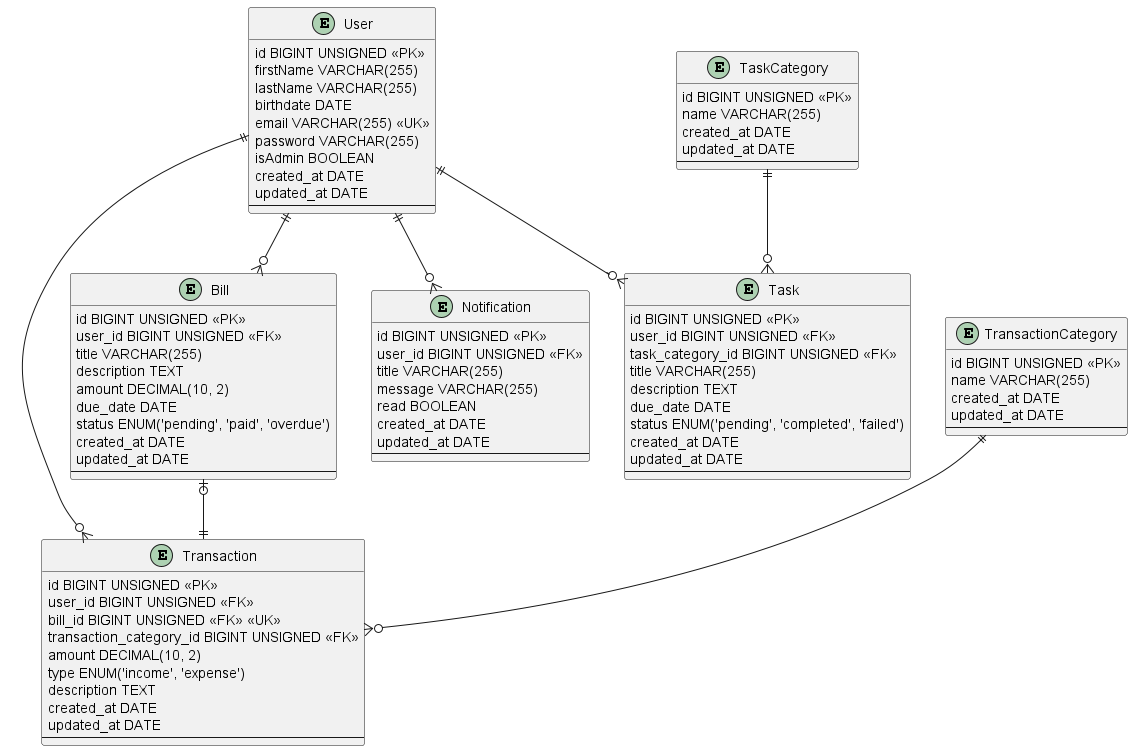
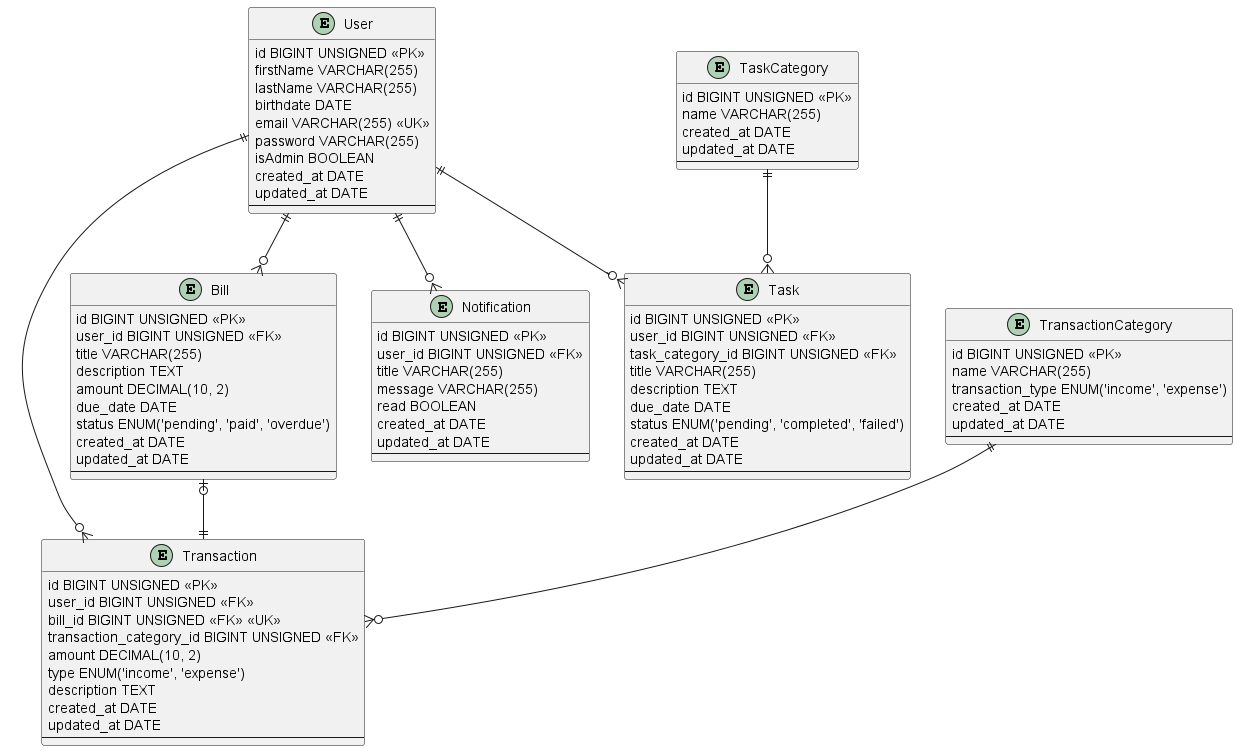
refactor: transaction_type in transactionCategories table
in order to differ the transactions category types available for expense and income transactions , this column has been added to the table.

diff --git a/database/migrations/2024_05_20_142255_create_transaction_categories_table.php b/database/migrations/2024_05_20_142255_create_transaction_categories_table.php
@@ -10,6 +10,9 @@ return new class extends Migration {
         Schema::create('transaction_categories', function (Blueprint $table) {
             $table->bigIncrements('id');
             $table->string('name');
+            $table
+                ->enum('transaction_type', ['expense', 'income'])
+                ->default('expense');
             $table->timestamps();
         });
     }

diff --git a/app/Models/TransactionCategory.php b/app/Models/TransactionCategory.php
@@ -12,10 +12,11 @@ class TransactionCategory extends Model
 
     protected $table = 'transaction_categories';
 
-    protected $fillable = ['name'];
+    protected $fillable = ['name', 'transaction_type'];
 
     public static $rules = [
         'name' => 'required|string|max:255',
+        'transaction_type' => 'in:expense,income',
     ];
 
     public function transactions()
